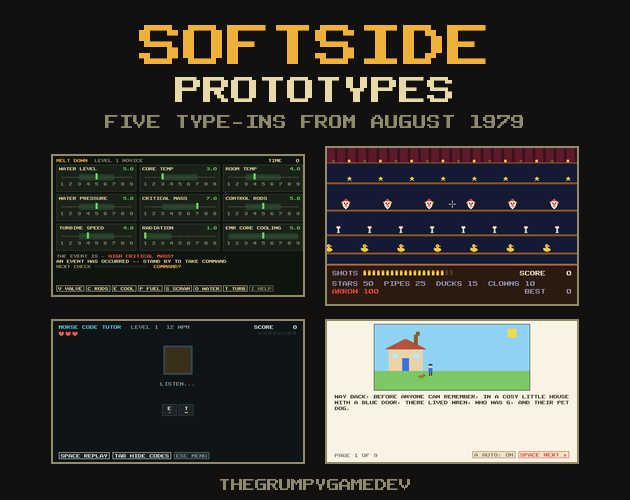
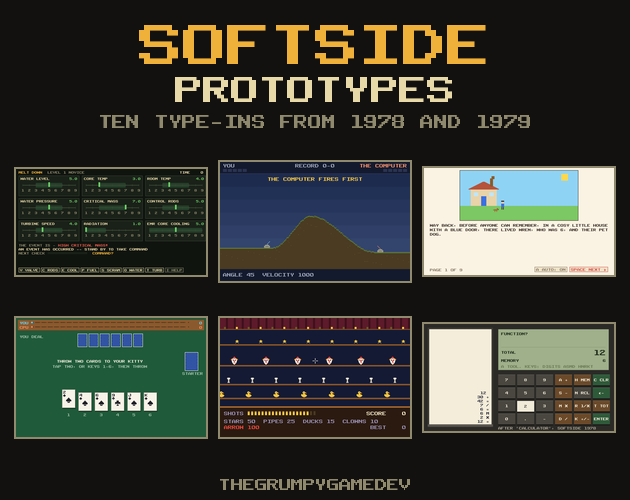
Itch material for ten: screenshots 07-11, a six-tile cover, page copy and devlog

diff --git a/tools/make_cover.py b/tools/make_cover.py
@@ -1,5 +1,5 @@
 #!/usr/bin/env python3
-"""Draws the 630 by 500 itch.io cover: the title in Public Pixel (CC0) over four of the
+"""Draws the 630 by 500 itch.io cover: the title in Public Pixel (CC0) over six of the
 screenshots in assets/screenshots/. Run after tools/make_shots.sh."""
 import os
 import sys
@@ -23,17 +23,17 @@ def centred(y, text, size, fill):
 
 centred(20, "SOFTSIDE", 44, GOLD)
 centred(74, "PROTOTYPES", 28, INK)
-centred(114, "FIVE TYPE-INS FROM AUGUST 1979", 14, DIM)
+centred(114, "TEN TYPE-INS FROM 1978 AND 1979", 14, DIM)
 
-# Four screenshots, two by two, each 250 wide.
-tiles = ["01-melt-down", "02-shooting-gallery", "04-morse-code-tutor", "05-storybook"]
-tw, gap, top = 250, 24, 146
+# Six screenshots, three by two, each 190 wide.
+tiles = ["01-melt-down", "07-pillbox", "05-storybook", "10-cribbage", "02-shooting-gallery", "11-calculator"]
+tw, gap, top, row_h = 190, 14, 150, 156
 for i, name in enumerate(tiles):
     s = Image.open(os.path.join(SHOTS, name + ".png")).convert("RGB")
     th = round(s.height * tw / s.width)
-    s = s.resize((tw, th), Image.NEAREST if s.width % tw == 0 else Image.LANCZOS)
-    x = (W - 2 * tw - gap) // 2 + (i % 2) * (tw + gap)
-    y = top + (i // 2) * 166 + (160 - th) // 2
+    s = s.resize((tw, th), Image.LANCZOS)
+    x = (W - 3 * tw - 2 * gap) // 2 + (i % 3) * (tw + gap)
+    y = top + (i // 3) * row_h + (row_h - 12 - th) // 2
     d.rectangle([x - 2, y - 2, x + tw + 1, y + th + 1], fill=DIM)
     img.paste(s, (x, y))
 centred(H - 22, "THEGRUMPYGAMEDEV", 12, DIM)

diff --git a/tools/make_shots.py b/tools/make_shots.py
@@ -20,6 +20,7 @@ OUT = os.path.join(ROOT, "assets", "screenshots")
 ENTER, SPACE = "Enter", " "
 STORY_KEYS = [(600, ENTER)] + [(900 + i * 120, c) for i, c in enumerate("WREN")] + \
     [(1500 + i * 150, ENTER) for i in range(10)] + [(3300, "1"), (5200, SPACE)]
+CALC_KEYS = [(2500 + i * 150, k) for i, k in enumerate(["1", "2", ENTER, "A", "3", "0", ENTER, "D", "7", ENTER, "H", "M", "2", ENTER])]
 SHOTS = [
     ("01-melt-down", "melt-down", (576, 320), [(600, "1")], 8500),
     ("02-shooting-gallery", "shooting-gallery", (384, 240),
@@ -28,6 +29,13 @@ SHOTS = [
     ("04-morse-code-tutor", "morse-code-tutor", (512, 288), [(600, "1")], 4900),
     ("05-storybook", "storybook", (512, 288), STORY_KEYS, 12500),
     ("06-melt-down-title", "melt-down", (576, 320), [], 1500),
+    # The second batch (Vol. 1 No. 1, October 1978).
+    ("07-pillbox", "pillbox", (384, 240), [(600, "1"), (2200, SPACE)], 6600),
+    ("08-gunnery-mate", "gunnery-mate", (384, 240), [(600, SPACE)], 4500),
+    ("09-state-capital-quiz", "state-capital-quiz", (384, 240), [(600, "1")], 5500),
+    ("10-cribbage", "cribbage", (512, 320),
+     [(800, SPACE), (2000, "1"), (2200, "2"), (2500, ENTER), (4600, "1"), (6400, "1")], 9000),
+    ("11-calculator", "calculator", (512, 288), CALC_KEYS, 9500),
 ]
 
 

diff --git a/ITCH_DESCRIPTION.md b/ITCH_DESCRIPTION.md
@@ -1,19 +1,23 @@
 # itch.io page copy: SoftSide Prototypes
 
 Page: https://thegrumpygamedev.itch.io/softside-prototypes (not created yet; the title and slug are working names until the user picks them; first release booked for November 25, 2026 in Coxswain, channel `html`).
-Pasted in by hand; nothing here is published by the repo. Cover: `assets/cover.png` (630 by 500, made by `tools/make_cover.py`). Screenshots: `assets/screenshots/` in order (made by `tools/make_shots.sh`). Embed: "Click to launch in fullscreen". The upload's `index.html` is the hub page listing all five.
+Pasted in by hand; nothing here is published by the repo. Cover: `assets/cover.png` (630 by 500, made by `tools/make_cover.py`). Screenshots: `assets/screenshots/` in order, 01 to 11 (made by `tools/make_shots.sh`). The upload's `index.html` is the hub page listing all ten. Updated November 18, 2026 for the second batch (the five listings of the first issue, October 1978).
+
+Page settings: Kind of project HTML; tick "This file will be played in the browser"; embed "Click to launch in fullscreen"; mobile friendly. External link "Latest version (GitHub Pages)": https://playdeezgames.github.io/prototypes-of-splorr/
 
 ## Short description (the one-line field)
 
-Five type-in programs from SoftSide magazine, August 1979, remade for the browser: four metaphors and a toy.
+Ten type-in programs from SoftSide magazine, 1978 and 1979, remade for the browser: metaphors, a toy and a tool.
 
-(107 characters; itch.io allows 120.)
+(112 characters; itch.io allows 120.)
 
 ## Page text
 
-**Latest version:** https://playdeezgames.github.io/prototypes-of-splorr/ (also add it as an external link on the page)
+**Latest version:** https://playdeezgames.github.io/prototypes-of-splorr/
 
-In August 1979, *SoftSide* magazine printed five BASIC programs for readers to type in by hand. These are new takes on all five, rebuilt for the browser. They are prototypes: small, quick, and open to change.
+*SoftSide* magazine printed BASIC programs for its readers to type in by hand. These are new takes on all ten from two issues, rebuilt for the browser. They are prototypes: small, quick, and open to change.
+
+### From August 1979
 
 **Melt Down** (after Michael Winter). A metaphor about running a nuclear plant on the worst day of its life. Nine meters, sixteen disasters, seven commands, and every command helps one thing and hurts another. Bring everything back to 5 before the core reaches 9.
 
@@ -25,20 +29,32 @@ In August 1979, *SoftSide* magazine printed five BASIC programs for readers to t
 
 **Storybook** (after Otto Hansen). A toy, not a metaphor: answer ten questions and it tells a picture story starring the child reading it.
 
+### From October 1978 (the first issue)
+
+**Pillbox** (after Gene Perkins). A metaphor in artillery: two pillboxes, one mountain, a barrel angle and a muzzle velocity. First to five hits wins the war. Play the computer or a friend.
+
+**Gunnery Mate** (after "Death Star"). A metaphor at the gun deck: raiders drift over yer batteries, and you fire when one is dead centre. Twenty-one shots, then the Overlord decides yer rank.
+
+**State Capital Quiz**. The quiz, made into a metaphor: fifty capitals, three choices each, a clock, three apples and streaks that multiply the score. A miss comes back later. Or play it the other way round.
+
+**Cribbage**. A metaphor with a peg board: two-handed cribbage against the computer, to 121. Throw to the kitty, peg to 31, count fifteens, pairs, runs, flushes and his nobs.
+
+**Calculator**. A tool, not a metaphor: a desk calculator that carries a running total and prints a paper tape, with the original's one-key functions and its memory.
+
 ### How to play
 
 - Open the hub and pick one. Each runs on keyboard, mouse or touch.
-- Best scores and times are kept in yer browser.
+- Best scores, records and the calculator's memory are kept in yer browser.
 - Found a bug that is not a metaphor? Leave a comment.
 
 ### About it
 
-The original listings are in *SoftSide* Vol. 1 No. 11 (August 1979). These are not ports: the rules and the feel were taken from the listings and rebuilt in Odin compiled to WebAssembly.
+The original listings are in *SoftSide* Vol. 1 No. 1 (October 1978) and Vol. 1 No. 11 (August 1979). These are not ports: the rules and the feel were taken from the listings and rebuilt in Odin compiled to WebAssembly.
 
 **AI disclosure:** made with Claude Code. TheGrumpyGameDev picked the programs and directed the work; Claude, an AI agent, wrote the code, the tests and the words, including this page.
 
 ### Credits
 
-- Original programs: Michael Winter, Frank B. Rowlett, Jr., Rik Pierce, Donald E. Smith and Otto Hansen, in *SoftSide*, August 1979.
+- Original programs: Michael Winter, Frank B. Rowlett, Jr., Rik Pierce, Donald E. Smith and Otto Hansen (*SoftSide*, August 1979); Gene Perkins, and the uncredited authors of Death Star, State Capital Quiz, Cribbage and Calculator (*SoftSide*, October 1978).
 - Font: Public Pixel by GGBotNet (CC0).
 - Sayings in Cryptogram: public-domain sources, credited in the code.

diff --git a/devlog/20261125/devlog.md b/devlog/20261125/devlog.md
@@ -4,15 +4,25 @@ Draft for the itch.io devlog (post type: Launch). Posting it needs the user's ye
 
 ---
 
-**Five type-ins from August 1979**
+**Ten type-ins from 1978 and 1979**
 
-*SoftSide* magazine's August 1979 issue printed five programs to type in: Melt Down, Shooting Gallery, Cryptogram, a Morse Code Tutor and Storybook. All five are here, remade for the browser.
+*SoftSide* magazine printed programs for its readers to type in. Here are all ten from two issues, remade for the browser.
+
+From August 1979:
 
 - **Melt Down**: nine meters, sixteen disasters, five levels. Every command trades one problem for another.
 - **Shooting Gallery**: twenty shots, four rows, one arrow worth a hundred.
 - **Cryptogram**: fifty sayings to crack, hints if you need them, a timer if you want one.
 - **Morse Code Tutor**: now a metaphor with levels, lives and streaks, plus a keyer and a buddy mode.
 - **Storybook**: a toy. Ten questions, then a picture story about the one who answered them.
+
+From October 1978, the very first issue:
+
+- **Pillbox**: an angle, a velocity and a mountain in the way. First to five hits, against the computer or a friend.
+- **Gunnery Mate**: fire when a raider is dead centre on a battery. Twenty-one shots, then a rank.
+- **State Capital Quiz**: fifty capitals against the clock, with streaks and three apples.
+- **Cribbage**: you against the computer, to 121, on a peg board.
+- **Calculator**: a tool. A running total and a paper tape.
 
 They are prototypes. Tell me which one deserves more.
 
